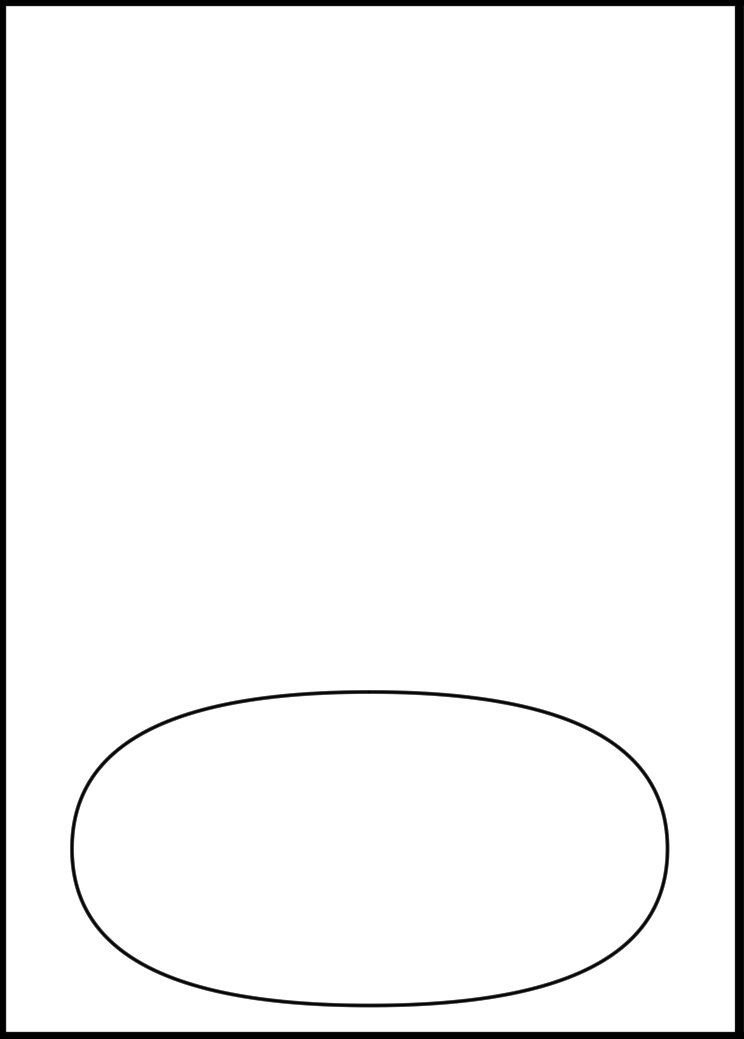
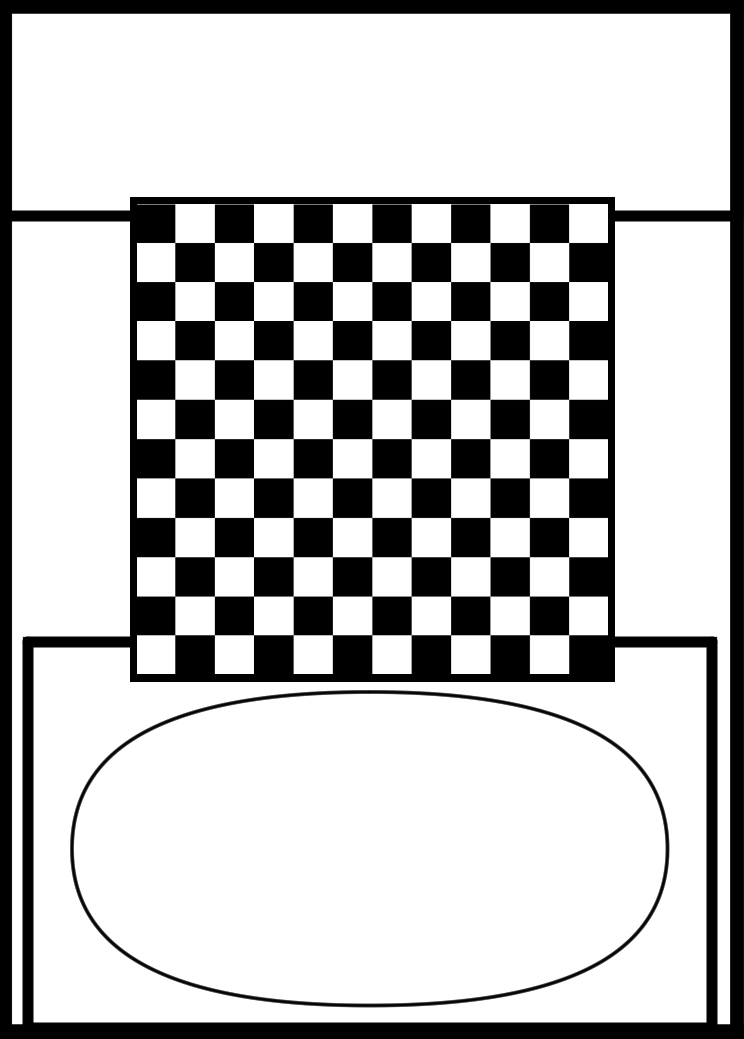
tweak layout to fit new card template

Changed region(s): [[0.0, 0.0, 0.9892, 1.0]]

diff --git a/routes/furnace.js b/routes/furnace.js
@@ -31,7 +31,7 @@ router.post("/", RandomGenerator(), upload.single("file"), (req, res, next) => {
             .greyscale();
         })
         .then((pic) => {
-          return card.composite(pic, 147, 200, [Jimp.BLEND_DESTINATION_OVER]);
+          return card.composite(pic, 147, 215, [Jimp.BLEND_DESTINATION_OVER]);
           // .write(`./image-processing/exports/${req.file.originalname}`);
         })
         .then((card) => {
